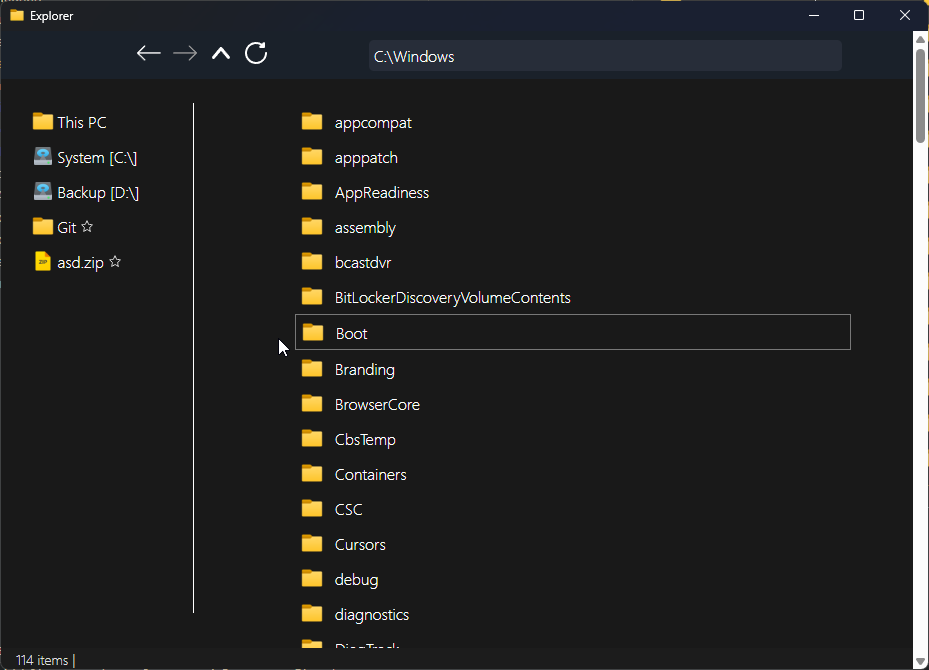
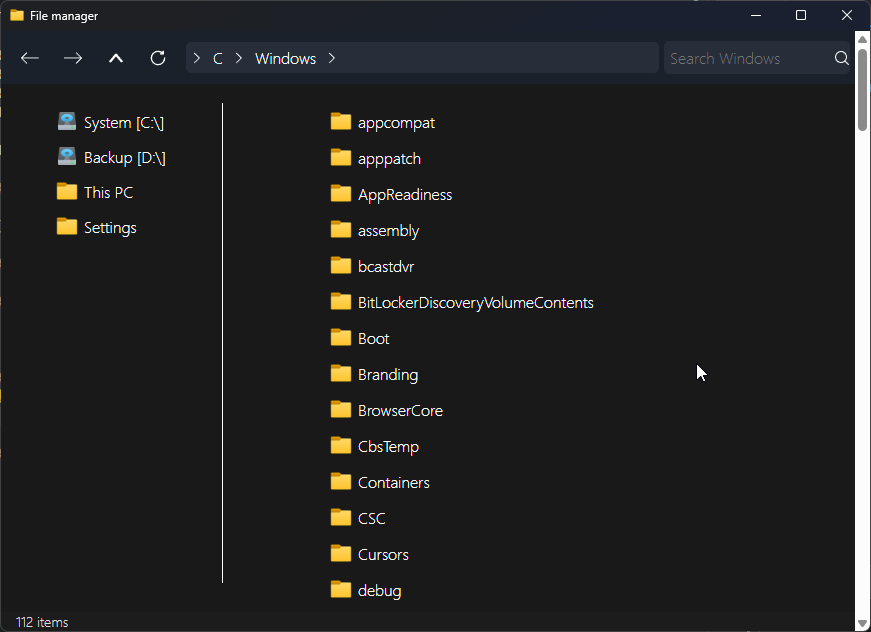
docs: :memo: Update readme, bump version to the 0.0.1 (first release)

diff --git a/README.md b/README.md
@@ -1,33 +1,37 @@
 # Explorer
 
-Simple file explorer in style of Windows 11 built with Tauri
+File explorer in style of Windows built with Tauri
+For now, provides core features that explorer should provide (deal with files, select files and etc), project is not build for big community, but if there is a lot of support within reporting issues / features I am will provide support for the project!
 
 ### Features
 
-- Home (View disk drives)
-- Files view (view files)
-- Sidebar (WIP), bookmarks
-- History and navigation (WIP)
-- Selection (WIP), select multiple items and deal with them
-- Context menu (WIP), select what to do with selected file / current directory
+- Views
+- - 'This PC' view with system drives (WIP)
+- - 'Settings' view (WIP)
+- - 'Files' view
+- Sidebar with pins
+- History (WIP)
+- Search (WIP, grep)
+- Selection (same as Windows Explorer ctrl/shift)
+- Context menu
+- Different file view styles
 
 ### TODO
 
-- Improve context menu, add new features
-- Improve selection, allow to immediately RMB to open selected context menu, allow to shift-select
-- Improve sidebar
-- Fix history navigation
-- Add column information (like, Windows explorer)
-- Much more
+- Add column information view (like, Windows explorer)
+- Add properties view
+- Allow to view content of some files
+- Allow to have paths with external sources (SFTP/WebDAV/Predefined cloud drives)
+- More in GitHub issues...
 
 ### Built stack
 
 The project is built using Tauri (React + Rust)
 
-Rust is used for backend OS interactions for now
+Rust is used for backend OS interactions for now (refactoring logic into Rust is one of next goals)
 React is capable of rendering (frontend), storing settings, and actually deal with raw data from Rust backend
 
-For now there is mess in the source code, main goal is to build maintainable code
+Main goal is to build maintainable and extendable code
 
 ### How to build / run
 
@@ -43,6 +47,10 @@ For now there is mess in the source code, main goal is to build maintainable cod
 
 ![](docs/readme/images/files.png)
 
-#### Selection and context menu (with no selection)
+#### Selection and context menu
 
 ![](docs/readme/images/selection.png)
+
+#### Settings
+
+![](docs/readme/images/settings.png)
